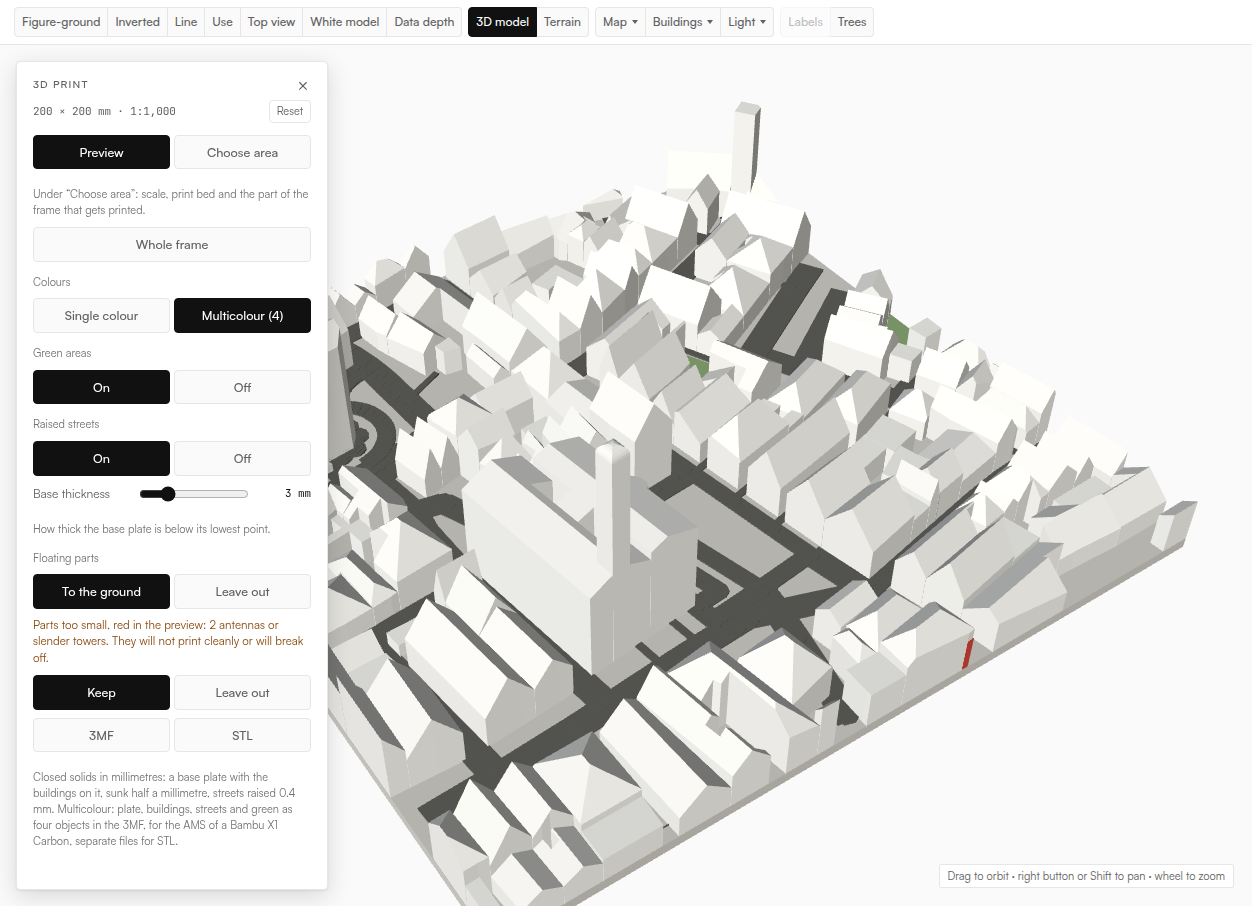
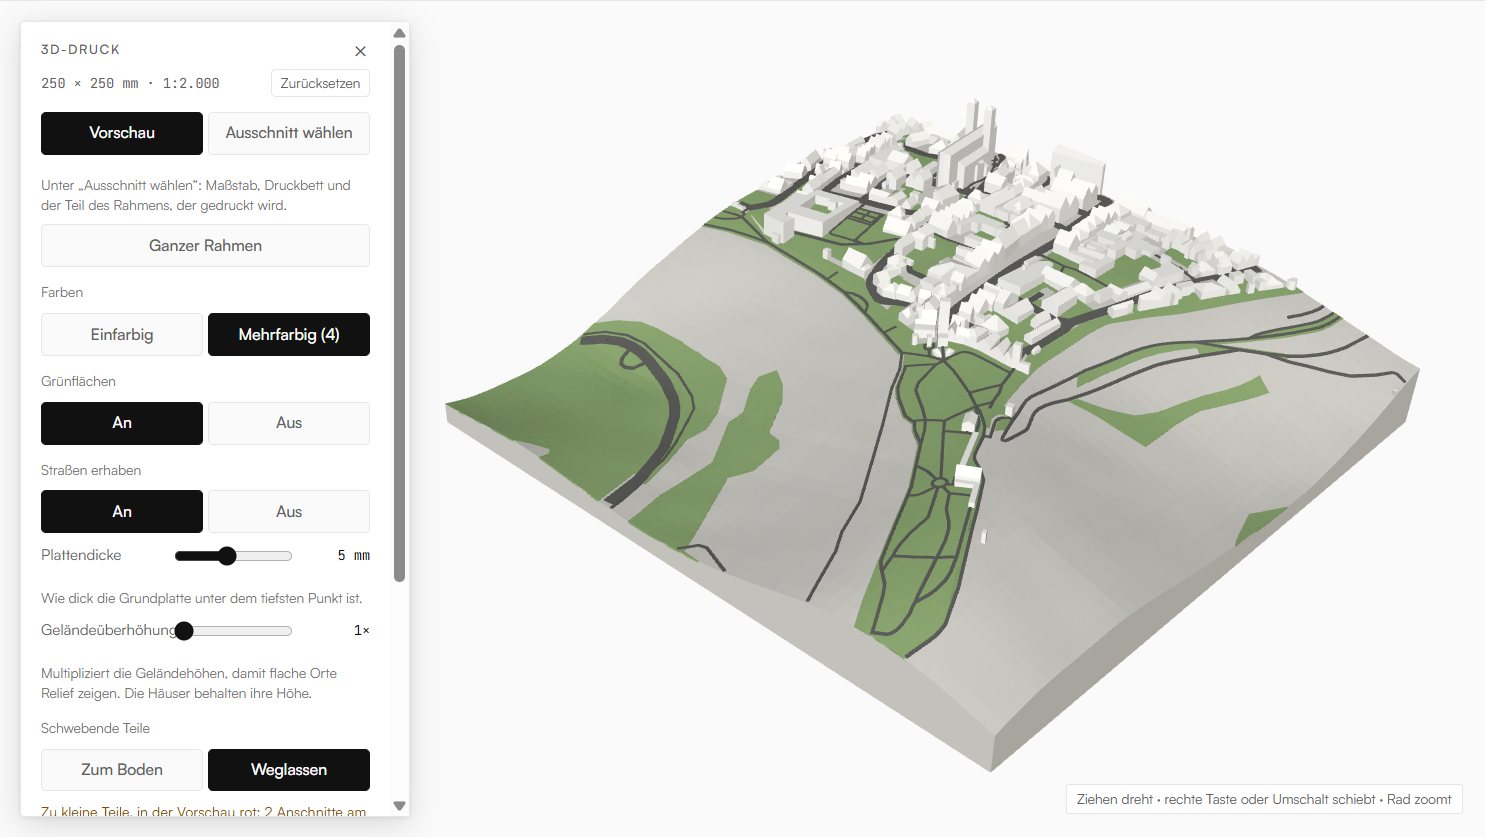
README: Bilder Rothenburg mit Dächern und Druckvorschau mit Relief (Screenshots Volker)

diff --git a/README.md b/README.md
@@ -63,7 +63,7 @@ not a rendering.
   saturation, contrast and brightness, and the weight of the map's lines, are
   set under **Map**. A grey, desaturated ground gives a plain context in Rhino.
 
-![3D model with terrain and trees, Prato (Tuscany)](docs/terrain-3d-light.png)
+![Rothenburg ob der Tauber on its terrain: gabled and hipped roofs from roof:shape, green areas, the frame of the 3D image](docs/roofs-3d.png)
 
 ### Terrain
 
@@ -82,6 +82,8 @@ them measure the surface, not the bare ground. That is good for slope, valley
 form and river position at masterplan scale — not for embankments, quay walls
 or steps. For more accuracy, bring in an official terrain model (see below).
 Terrain is off by default; then everything stands on z = 0.
+
+![3D model with terrain and trees, Prato (Tuscany)](docs/terrain-3d-light.png)
 
 ## 3D print
 
@@ -110,7 +112,7 @@ Studio reports “invalid configuration, only geometry is loaded” for every
 3MF it did not write itself — that is expected; printer settings belong in the
 slicer.
 
-![3D print preview of the old town of Rothenburg ob der Tauber at 1:1,000, with the print panel on the left](docs/print-preview.png)
+![3D print preview of Rothenburg ob der Tauber at 1:2,000, 250 × 250 mm on its terrain, multicolour, with the print panel on the left](docs/print-preview.png)
 
 ## Gaps in OpenStreetMap: Overture
 
